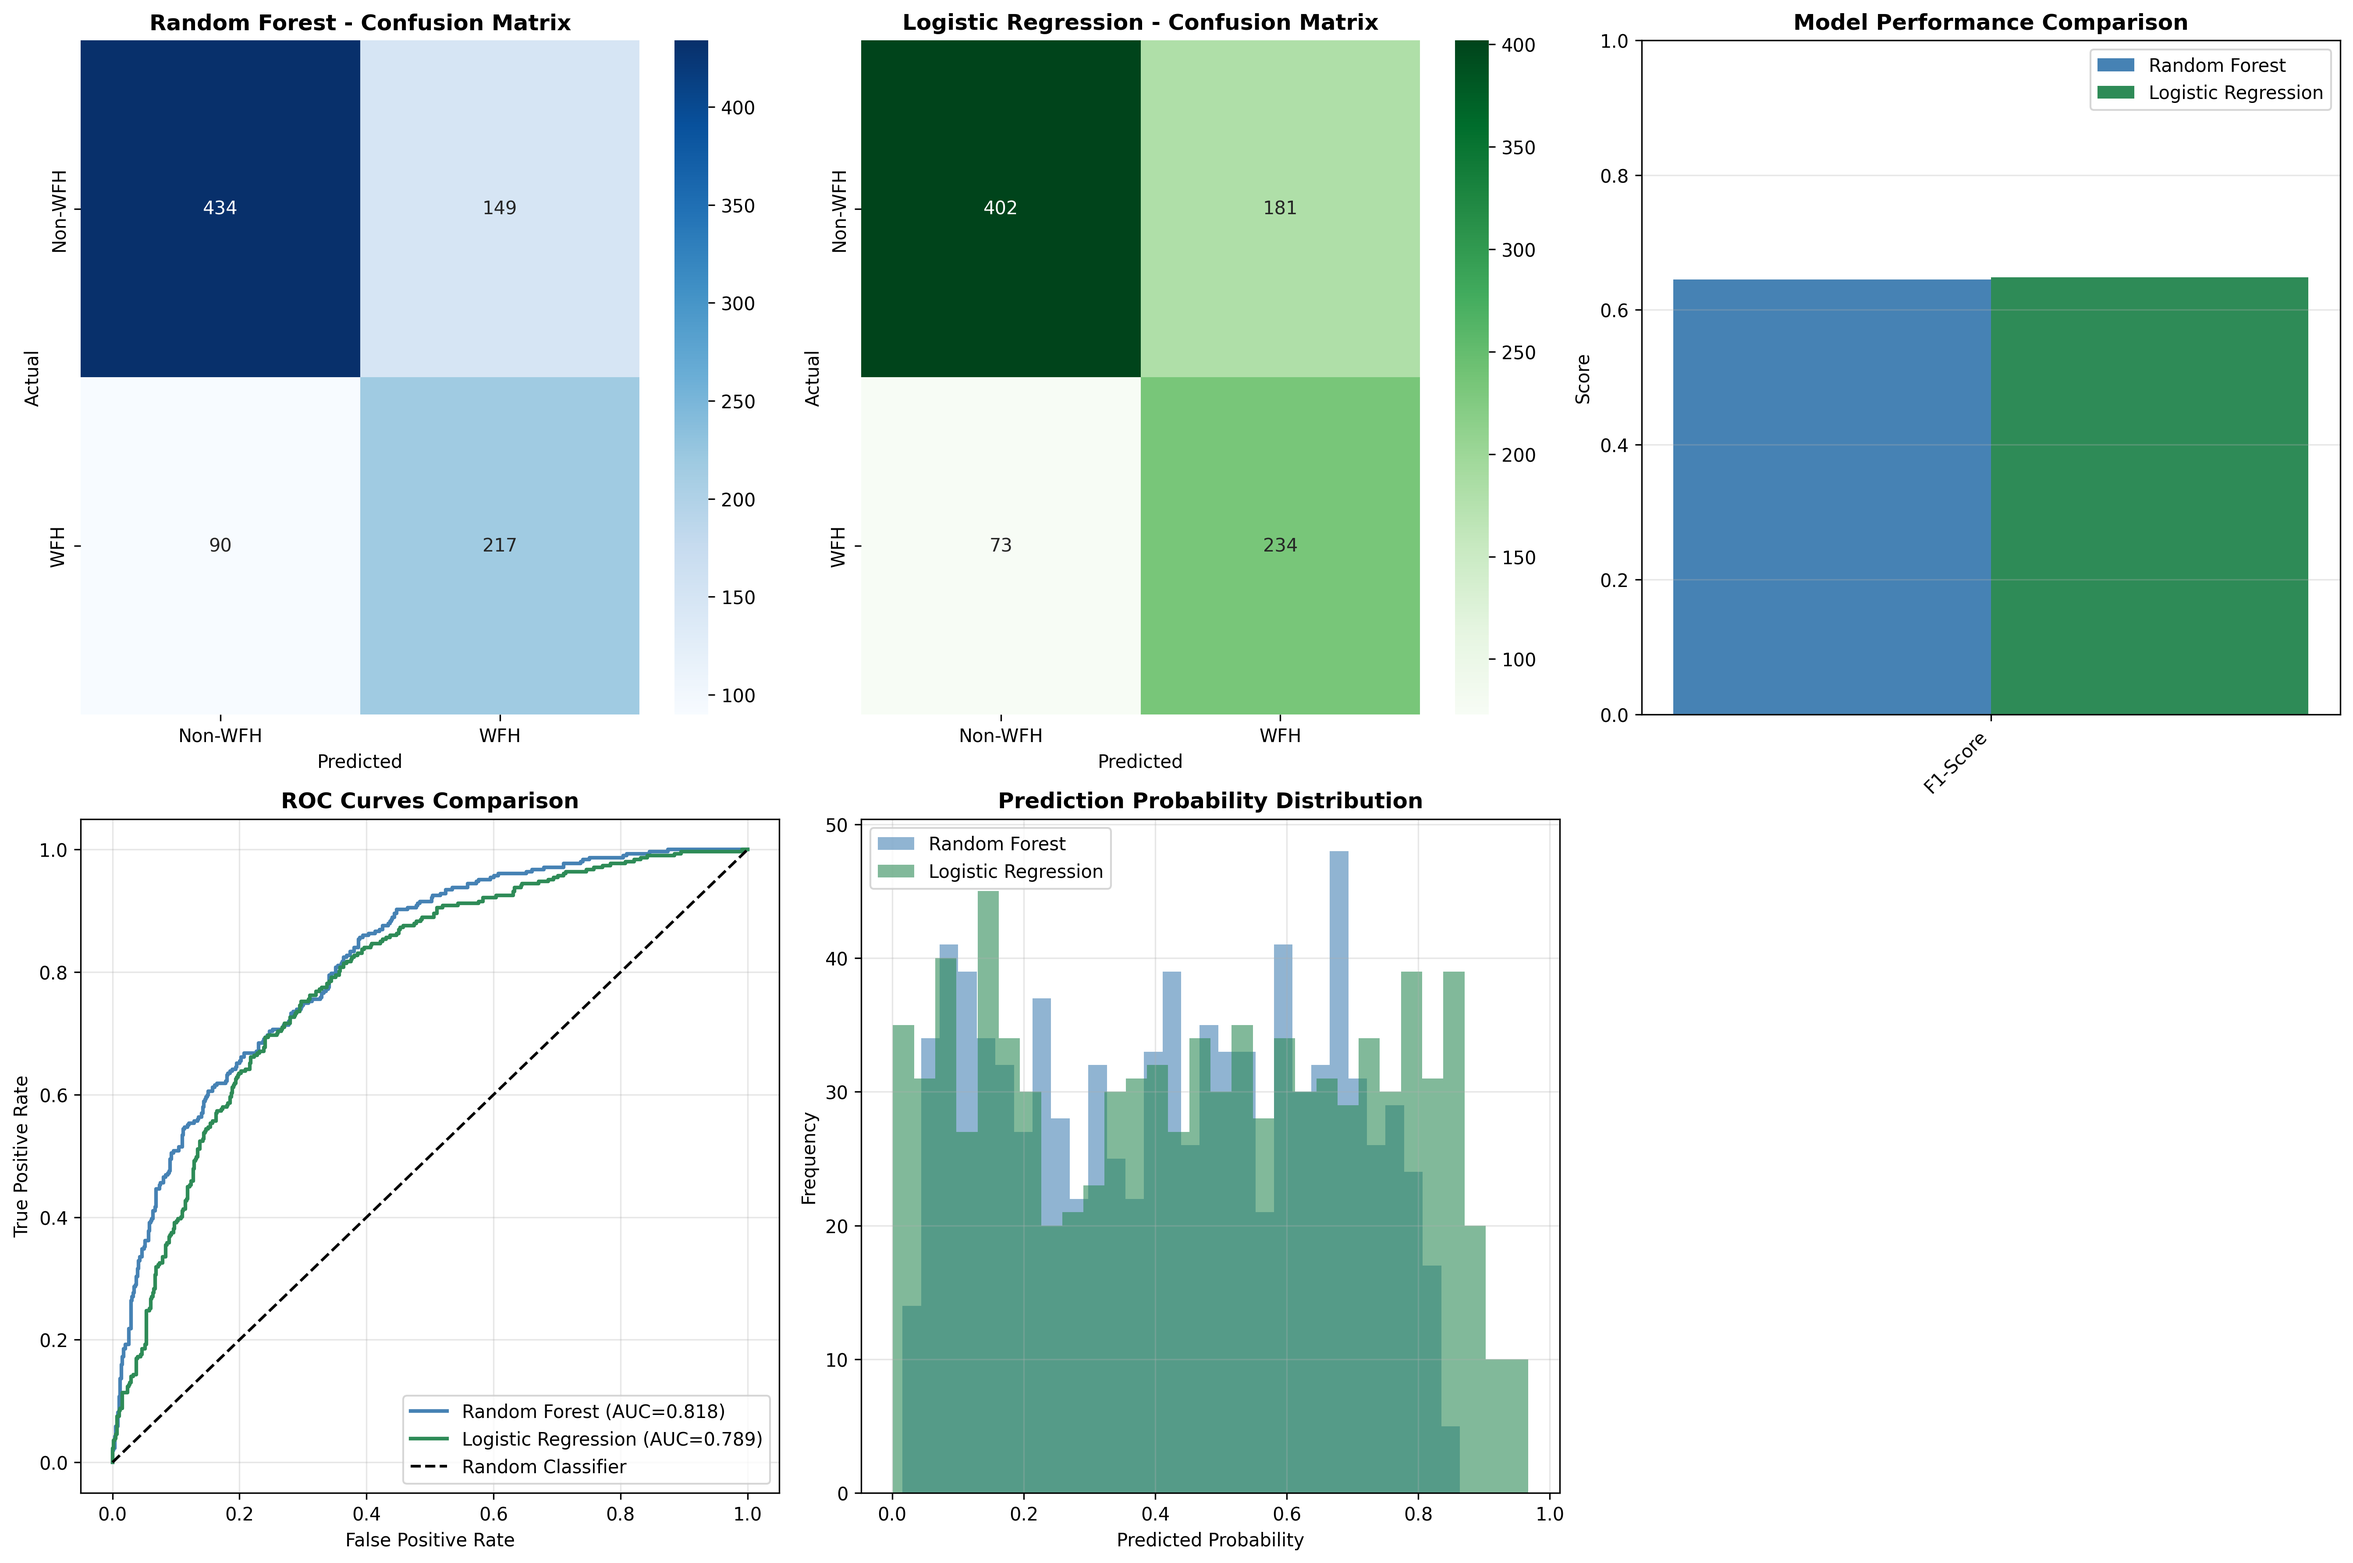
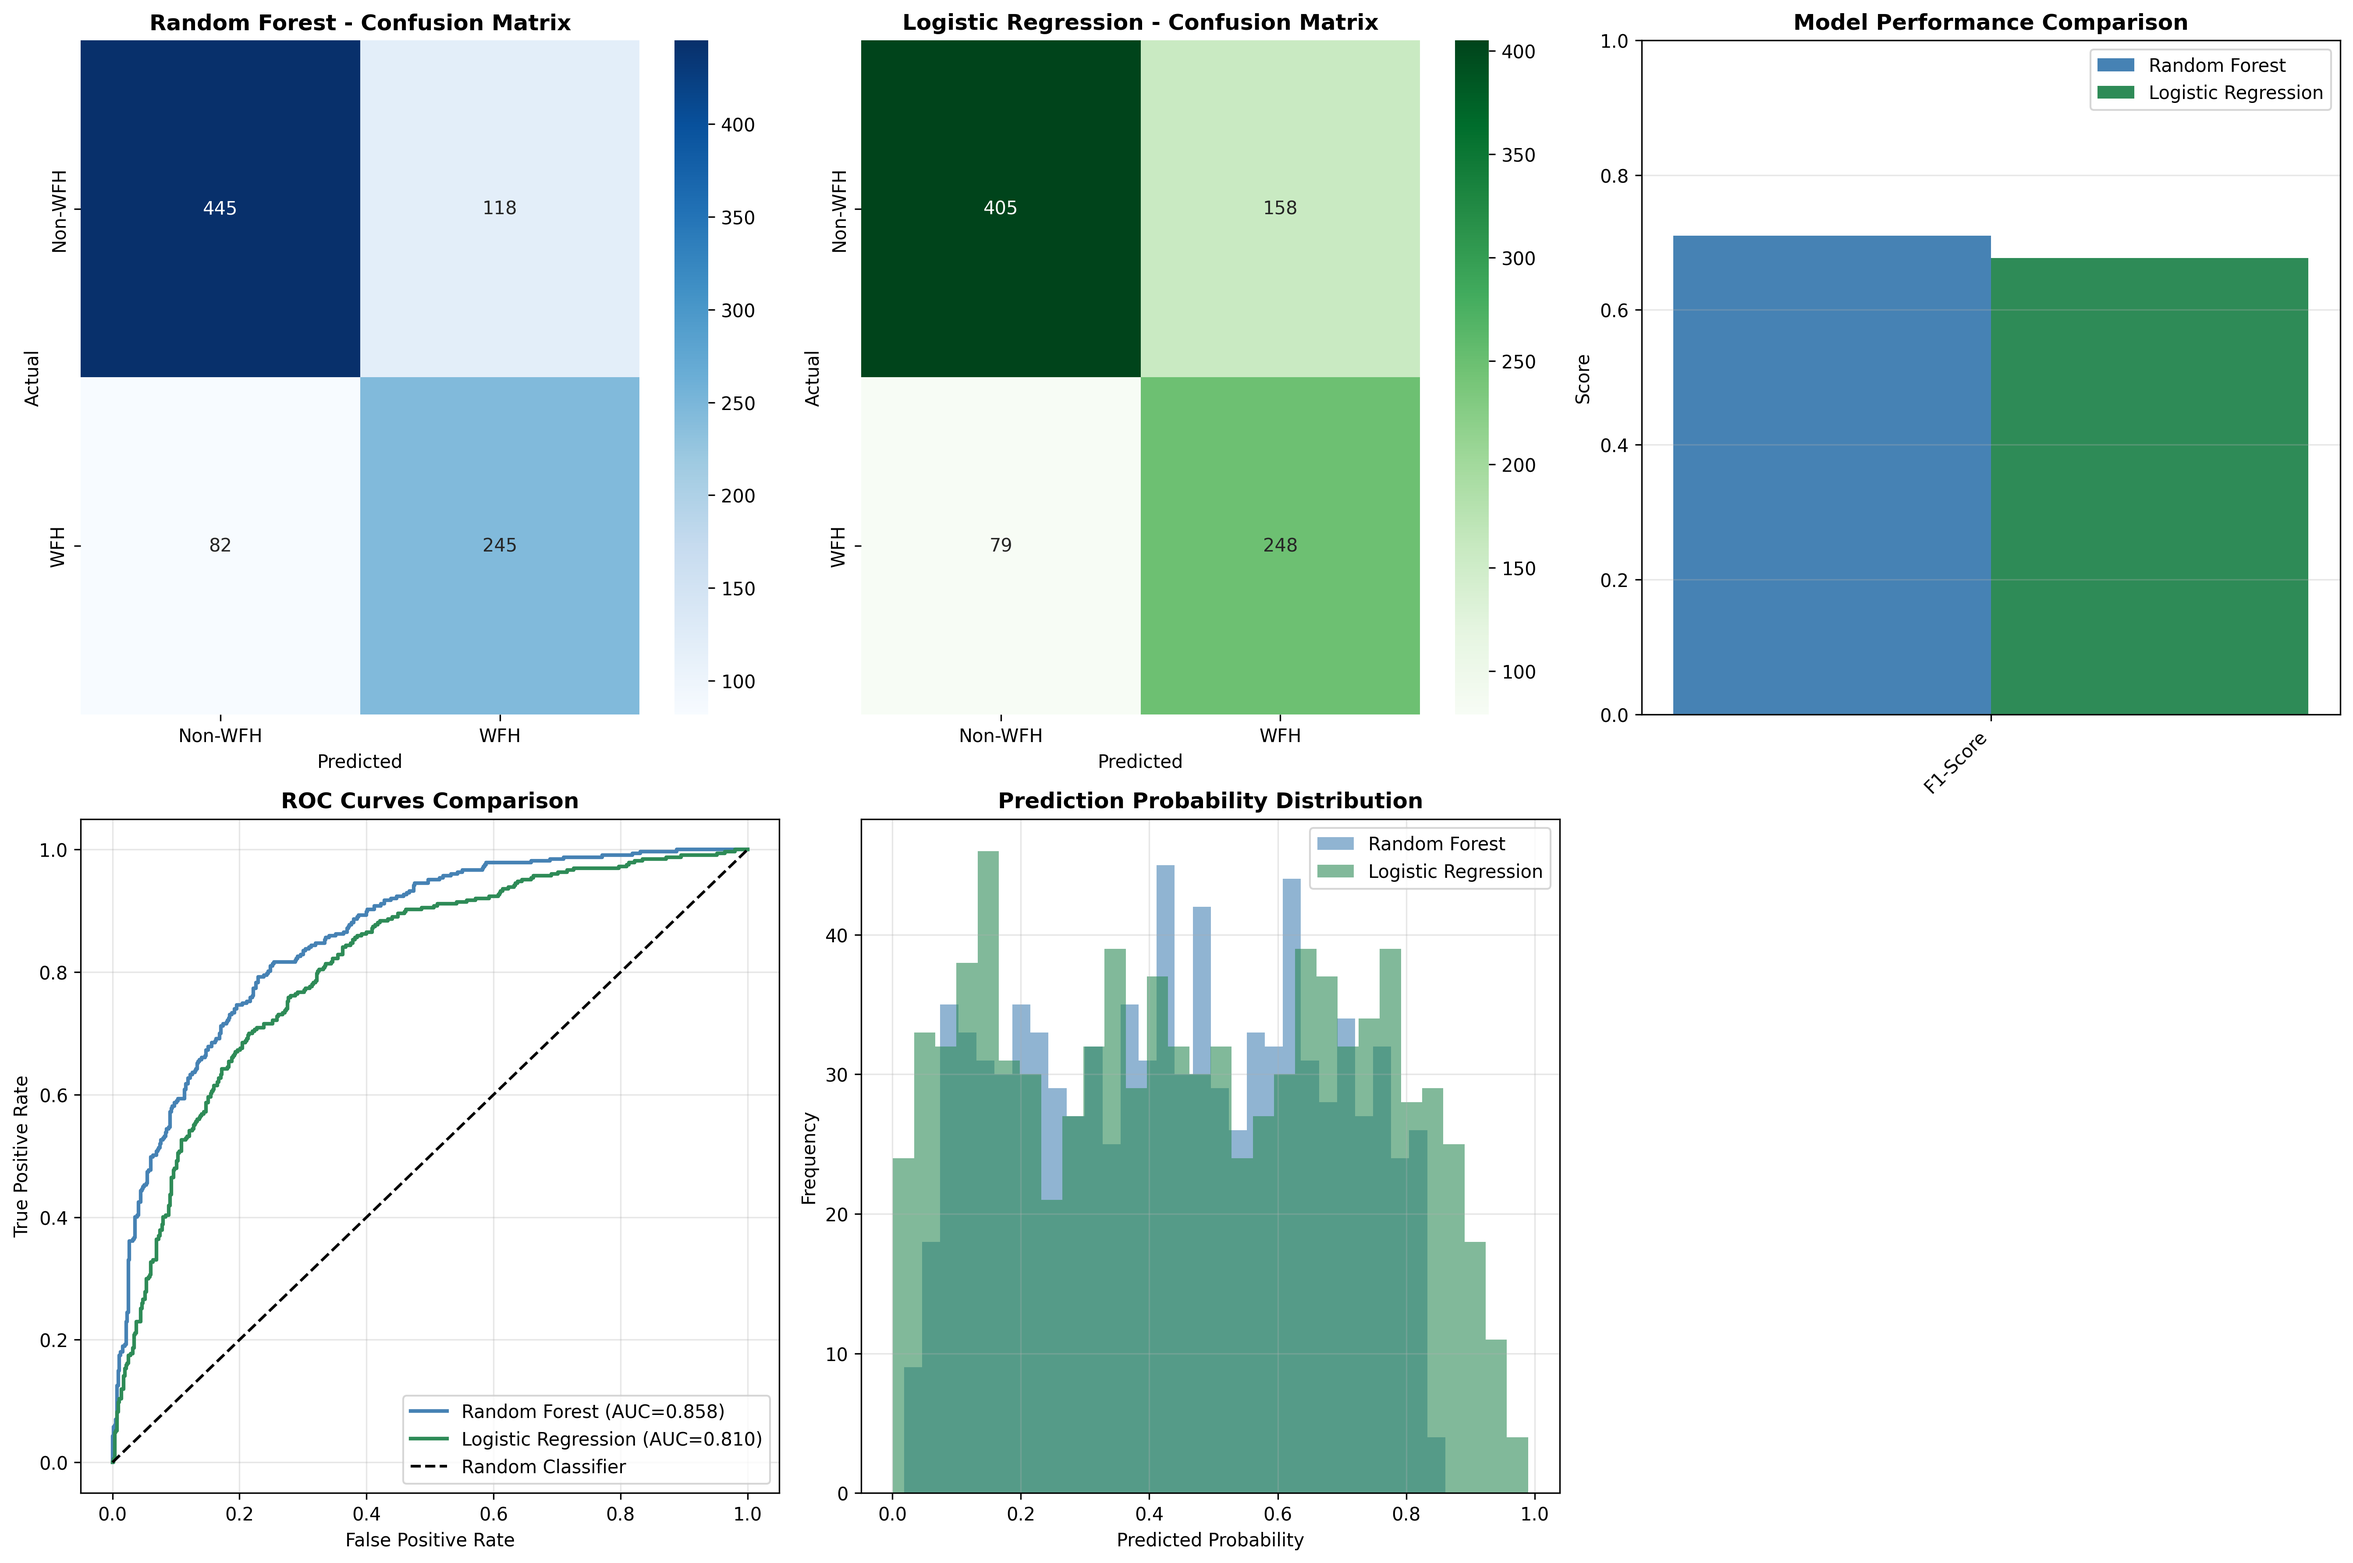
usage data change

diff --git a/03_supervised_learning/scripts/main.py b/03_supervised_learning/scripts/main.py
@@ -30,10 +30,10 @@ def main():
     print("=" * 70)
     
     # Load data
-    household_df, person_df, journey_df, morning_df = load_and_merge_data()
+    household_df, person_df, journey_df =load_and_merge_data()
     
     # Prepare and merge features
-    df = prepare_features(household_df, person_df, journey_df, morning_df)
+    df = prepare_features(household_df, person_df, journey_df)
     
     # Select and clean features
     df_clean, label_encoders = select_features(df)

diff --git a/03_supervised_learning/scripts/preprocessing.py b/03_supervised_learning/scripts/preprocessing.py
@@ -9,7 +9,7 @@ import pandas as pd
 import numpy as np
 from sklearn.preprocessing import StandardScaler, LabelEncoder
 
-def prepare_features(household_df, person_df, journey_df, morning_df):
+def prepare_features(household_df, person_df, journey_df):
     """
     Merge datasets and create features for modeling.
     """
